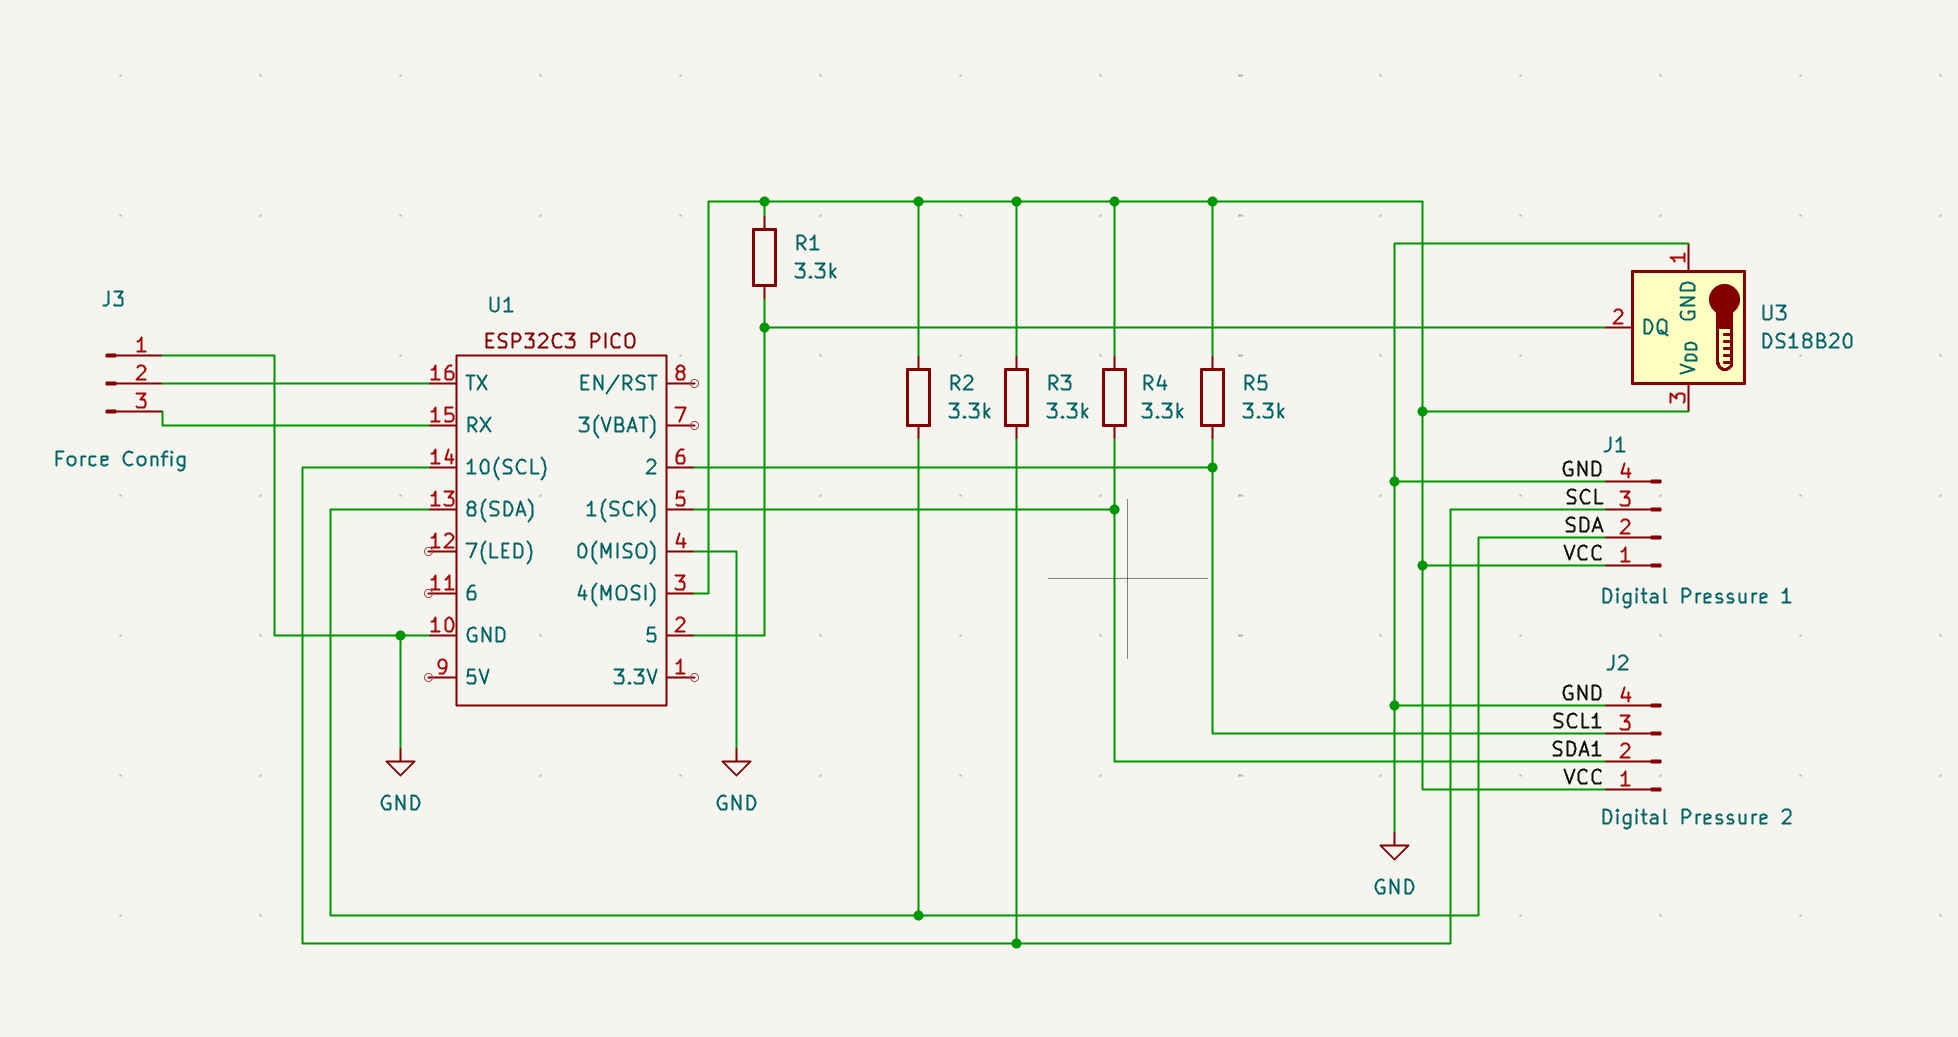
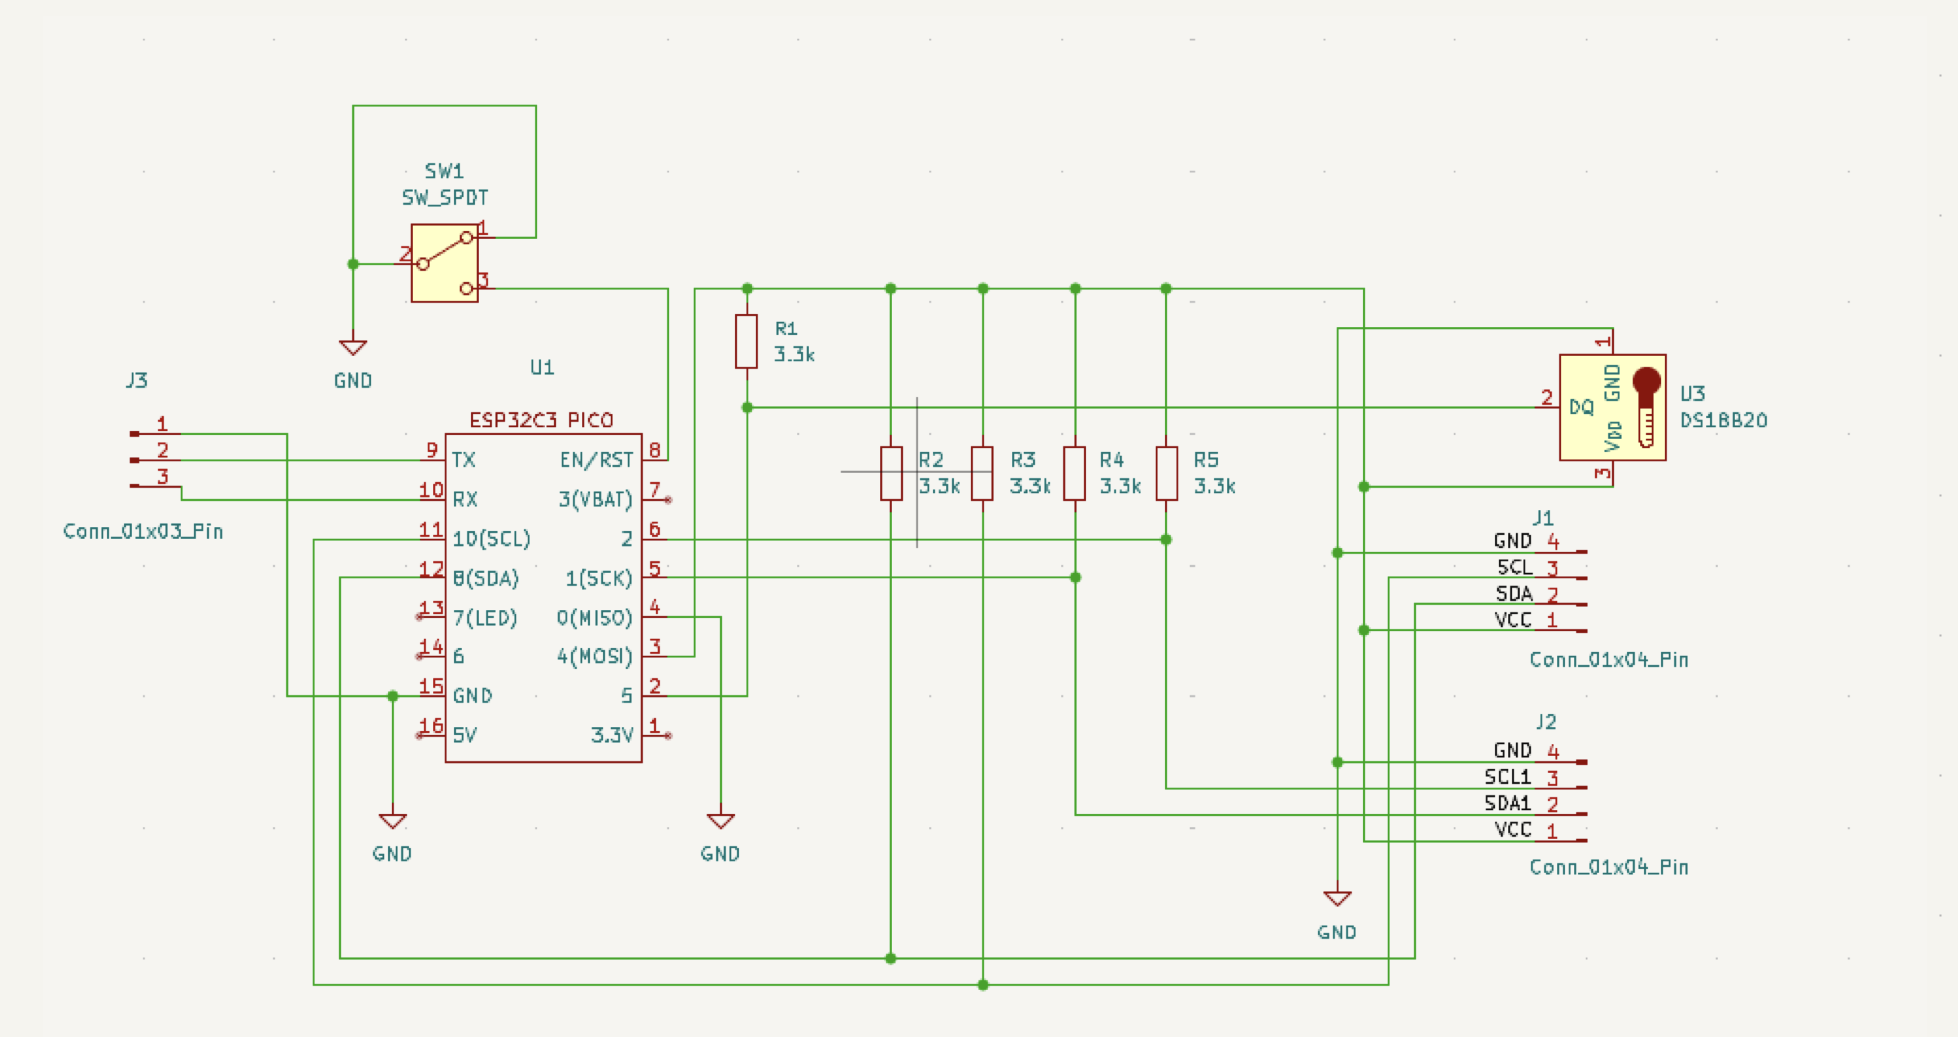
Update build instructions for the hardware

diff --git a/src_docs/source/hardware.rst b/src_docs/source/hardware.rst
@@ -7,20 +7,23 @@ To build the hardware for this project you will need the following.
 
 * A microcontroller ESP32c3 ESP32c3 pico. 
 * A digital pressure sensor from the brand XIDIBEI (see aliexpress.com), select one that matches the range you want to measure.
-* 2.2k resistors for the I2C, SDA and SCL lines pullup
-* PCB for mounting the components (TODO: add link to pcbway)
-
-Optional:
-* A analog pressure sensor from the brand XIDIBEI (see aliexpress.com) and an external ADC ADS1115
+* PCB for mounting the components
 * Lithium battery compatible with the ESP32c3 pico (check the battery matches the connector, +/- pins)
 * DS18B20 temperature sensor (Needed for temperature data since the internal sensor is not accurate enough)
 * 3.3k resistors for the temperature sensor data pullup
+* Small switch for turning the device off
+
+.. note:: 
+
+  There is no need for pullups on the I2C bus since the XIDIBEI sensors already have internal pullups. These are added so that we can 
+  support other sensors in the future.
+
 
 .. note:: 
 
   ESP32c3 mini, ESP32s2 mini or ESP32s3 mini will also work but will require additional hardware such as LiPo 
   charger and voltage divider for measuring battery. (The s2 does not support bluetooth). If you want to use 
-  any of these boards the pinout is the same. 
+  any of these boards the pinout is the same.
 
 
 Custom boards
@@ -30,7 +33,6 @@ Besides the standard boards listed here (which are tested and verified by me) th
 to add custom boards which are included in the builds and made available through this gihub repository. 
 A list of these boards can be found here :ref:`custom-boards`. I cannot take full responsibility for these 
 builds since I dont have access to these boards for testing.
-
 
 Schema for ESP32c3 pico
 +++++++++++++++++++++++
@@ -42,4 +44,36 @@ Schema for ESP32c3 pico
 Building a device
 +++++++++++++++++
 
-Work in progress
+.. warning:: 
+
+  The images shown here for the v1.2 prototype pcb and does not include the switch. This is added to the next revision 
+  and I will update the images once these are manufactured.
+
+First I would recommend to flash the esp board to make sure that that will work properly before mounting the 
+rest of the components. To flash the pci you first need to place it in flash mode which is done by pressing 
+the button marked 9 and then pushing the reset button and finally release the 9 button. 
+
+Once flashing has been done then do another reset so the esp will start up. You can then configure the wifi 
+and connect the battery to see that you get a valid reading.
+
+.. image:: images/hw_pico.jpeg
+  :width: 700
+  :alt: Schema ESP32c3 pico
+
+Next step is to put some solder on the jumper pads marked LED and VBAT on the back of the board. This will 
+enable the battery sensor and LED. Without the VBAT jumper soldered there is no way to measure battery level.
+
+.. image:: images/hw_build.jpeg
+  :width: 700
+  :alt: Schema ESP32c3 pico
+
+Next step is to solder the other components on the board like the temperature sensor, temp sensor pullup resistor, 
+pressure sensor and switch. I would also recommend to add some pins for the force config so that the device can be 
+forced into configuration mode if needed.
+
+.. note:: 
+
+  Make sure you use the pins for SENSOR 1 since the software does not yet support the second sensor.
+
+Now you can mount the esp to the pcb and the build is done.
+
